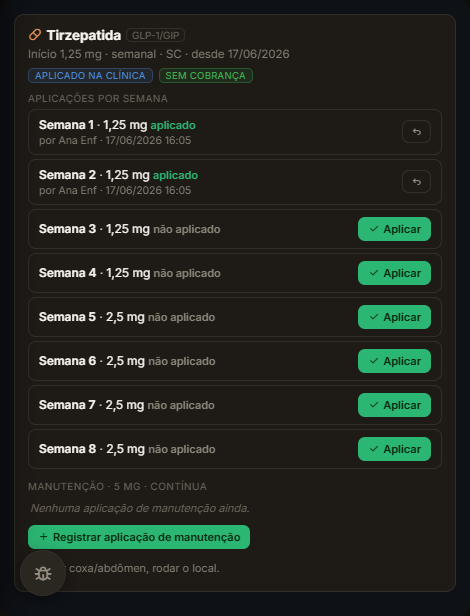
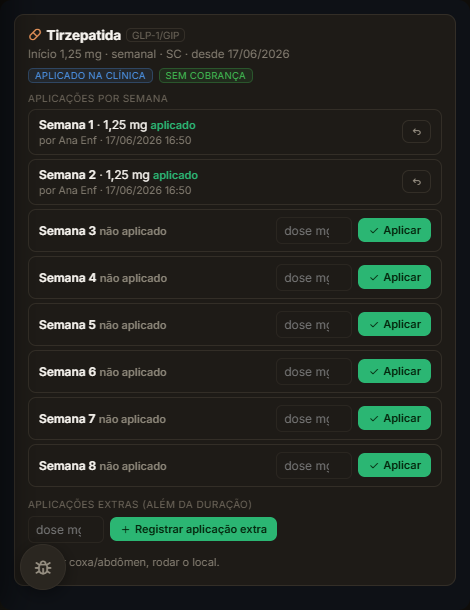
fix(base): numerar aplicações extras pela posição (sem buraco após desfazer)
O ordinal das aplicações extras usava semana - total_finito (offset absoluto),
então desfazer uma extra do meio deixava "Extra 2ª" sem "1ª". Passa a numerar
pela posição na lista (já ordenada por semana). Testes da aba Base atualizados
pra UI atual (dose digitada + "Extra") + novo teste do item da timeline.

diff --git a/shots/pr-base-aba.js b/shots/pr-base-aba.js
@@ -1,9 +1,9 @@
-// Aba "Base" no card de ENFERMAGEM: medicamento base (GLP-1), UMA linha de aplicação por semana da
-// escada + botão aplicar/desfazer + manutenção sob demanda. Sem cobrança.
+// Aba "Base" no card de ENFERMAGEM: UMA linha por semana da escada + dose DIGITADA na hora + aplicar/
+// desfazer + aplicações "extras" (além da duração). Sem cobrança.
 // Roda de total/: node shots/pr-base-aba.js <porta>
 const puppeteer = require('puppeteer-core');
 const CHROME = String.raw`C:\Program Files\Google\Chrome\Application\chrome.exe`;
-const PORT = process.argv[2] || '8180';
+const PORT = process.argv[2] || '8195';
 
 (async () => {
   const b = await puppeteer.launch({ executablePath: CHROME, headless: 'new', args: ['--no-sandbox'], defaultViewport: { width: 900, height: 1100 } });
@@ -17,11 +17,11 @@ const PORT = process.argv[2] || '8180';
     const r = {};
     window.homeToast = () => {};
     window.temPermissao = () => true; // enfermeira com permissão de aplicar
-    const cincoSemanas = new Date(Date.now() - 35 * 86400000).toISOString();
+    const cinco = new Date(Date.now() - 35 * 86400000).toISOString();
 
-    // GET expandido: 8 semanas finitas (4x1,25 + 4x2,5), semana 1 já aplicada; manutenção 5 mg sob demanda.
+    // GET expandido: 8 semanas finitas, semana 1 já aplicada (dose registrada); "extras" 9 e 11 (gap: a 10 foi desfeita).
     const semanasMock = [
-      { semana: 1, dose_mg: 1.25, aplicada: true, aplicacao_id: 'a1', data_aplicacao: cincoSemanas, enfermeiro: 'Ana Enf', baixa_estoque: true },
+      { semana: 1, dose_mg: 1.25, aplicada: true, aplicacao_id: 'a1', data_aplicacao: cinco, enfermeiro: 'Ana Enf', baixa_estoque: true },
       { semana: 2, dose_mg: 1.25, aplicada: false },
       { semana: 3, dose_mg: 1.25, aplicada: false },
       { semana: 4, dose_mg: 1.25, aplicada: false },
@@ -33,9 +33,12 @@ const PORT = process.argv[2] || '8180';
     const baseResp = () => ({ ok: true, data: { prescricoes: [{
       id: 'pb1', patientId: 'p1', medicamentoBaseSlug: 'tirzepatida', doseInicialMg: 1.25, via: 'SC',
       frequencia: 'semanal', autoAdministrado: false, observacoes: 'Aplicar coxa/abdômen, rodar o local.',
-      status: 'prescrita', createdAt: cincoSemanas, total_finito: 8,
+      status: 'prescrita', createdAt: cinco, total_finito: 8,
       semanas: JSON.parse(JSON.stringify(semanasMock)),
-      manutencao: { dose_mg: 5, aplicadas: [] },
+      manutencao: { dose_mg: 5, aplicadas: [
+        { semana: 9, dose_mg: 5, aplicada: true, data_aplicacao: cinco, enfermeiro: 'Ana Enf', baixa_estoque: true },
+        { semana: 11, dose_mg: 5, aplicada: true, data_aplicacao: cinco, enfermeiro: 'Ana Enf', baixa_estoque: true },
+      ] },
     }] } });
     window.pacApi = async (url) => {
       if (/\/protocolos\/prescricoes-base\//.test(url)) return baseResp();
@@ -68,43 +71,49 @@ const PORT = process.argv[2] || '8180';
     r.sem_escada_velha = !/Escada de dose/.test(t) && !box.querySelector('.pr-base-degrau') && !/~ atual/.test(t);
     r.sem_alerta = !box.querySelector('.pr-base-alerta') && !/contraindicad/i.test(t) && !/Titular a dose/.test(t) && !/pancreatite/i.test(t);
 
-    // C) uma linha por semana (8), com dose por degrau
+    // C) uma linha por semana (8)
     const linhas = [...box.querySelectorAll('.pr-inj-lin')];
     r.n_linhas_sem = linhas.filter(l => /Semana \d/.test(l.textContent)).length; // 8 semanas
     r.tem_titulo_semanas = /Aplicações por semana/.test(t);
-    // semana 1 aplicada -> mostra "aplicado" + enfermeiro + botão desfazer
+    // semana 1 aplicada -> "aplicado" + enfermeiro + botão desfazer + dose registrada
     const l1 = linhas.find(l => /Semana 1\b/.test(l.textContent));
-    r.sem1_aplicada = !!l1 && /aplicado/.test(l1.textContent) && /Ana Enf/.test(l1.textContent) && !!l1.querySelector('.pr-inj-btn.desfazer');
-    // semana 2 pendente -> "não aplicado" + botão Aplicar
+    r.sem1_aplicada = !!l1 && /aplicado/.test(l1.textContent) && /Ana Enf/.test(l1.textContent) && !!l1.querySelector('.pr-inj-btn.desfazer') && /1,25 mg/.test(l1.textContent);
+    // semana 2 pendente -> "não aplicado" + INPUT de dose + botão Aplicar
     const l2 = linhas.find(l => /Semana 2\b/.test(l.textContent));
-    r.sem2_pendente = !!l2 && /não aplicado/.test(l2.textContent) && !!l2.querySelector('.pr-inj-btn.aplicar');
-    // doses corretas por degrau
-    r.doses_degrau = /Semana 5/.test(t) && [...linhas].some(l => /Semana 5/.test(l.textContent) && /2,5 mg/.test(l.textContent));
+    r.sem2_pendente = !!l2 && /não aplicado/.test(l2.textContent) && !!l2.querySelector('.pr-inj-btn.aplicar') && !!document.getElementById('pbdose-pb1-2');
 
-    // D) manutenção sob demanda
-    r.tem_manut_sec = /Manutenção · 5 mg · contínua/.test(t);
-    r.tem_btn_manut = /Registrar aplicação de manutenção/.test(box.innerHTML);
+    // D) aplicações extras (além da duração) + ordinal DENSO (fix: 9 e 11 -> "Extra 1ª" e "Extra 2ª", não "3ª")
+    r.tem_extras_sec = /Aplicações extras/.test(t);
+    r.tem_btn_extra = /Registrar aplicação extra/.test(box.innerHTML) && !!document.getElementById('pbdose-pb1-manut');
+    r.extra_ordinal_denso = /Extra 1ª/.test(t) && /Extra 2ª/.test(t) && !/Extra 3ª/.test(t);
 
     // E) as funções existem
     r.fns = typeof prBaseAplicar === 'function' && typeof prBaseDesaplicar === 'function' && typeof prBaseAplicarManut === 'function';
 
-    // F) clicar Aplicar na semana 2 -> POST /aplicar {semana:2}; e simular resposta ok
-    let corpoEnviado = null, urlEnviada = null;
+    // F) exige dose antes de aplicar (input vazio -> não chama a API)
+    let urlEnviada = null, corpoEnviado = null;
     window.pacApi = async (url, opts) => {
-      if (/\/protocolos\/prescricoes-base\/pb1\/aplicar$/.test(url)) { urlEnviada = url; corpoEnviado = JSON.parse(opts.body); return { ok: true, data: { ok: true, semana: 2, baixa_estoque: true } }; }
-      if (/\/protocolos\/prescricoes-base\//.test(url)) { const rr = baseResp(); rr.data.prescricoes[0].semanas[1].aplicada = true; rr.data.prescricoes[0].semanas[1].enfermeiro = 'Eu Mesmo'; rr.data.prescricoes[0].semanas[1].data_aplicacao = new Date().toISOString(); rr.data.prescricoes[0].semanas[1].baixa_estoque = true; return rr; }
+      if (/\/prescricoes-base\/pb1\/aplicar$/.test(url)) { urlEnviada = url; corpoEnviado = JSON.parse(opts.body); return { ok: true, data: { ok: true, semana: 2, baixa_estoque: true } }; }
+      if (/\/protocolos\/prescricoes-base\//.test(url)) { const rr = baseResp(); rr.data.prescricoes[0].semanas[1].aplicada = true; rr.data.prescricoes[0].semanas[1].dose_mg = 1.25; rr.data.prescricoes[0].semanas[1].enfermeiro = 'Eu Mesmo'; rr.data.prescricoes[0].semanas[1].data_aplicacao = new Date().toISOString(); rr.data.prescricoes[0].semanas[1].baixa_estoque = true; return rr; }
       if (/\/protocolos\/medicamentos-base$/.test(url)) return { ok: true, data: { medicamentos: [{ slug: 'tirzepatida', nome: 'Tirzepatida', classe: 'glp1_gi', via: 'SC', alertas: [] }] } };
       return { ok: true, data: {} };
     };
     const btnAplicar = l2.querySelector('.pr-inj-btn.aplicar');
+    await prBaseAplicar('pb1', 2, btnAplicar); // input vazio
+    await new Promise(x => setTimeout(x, 30));
+    r.bloqueia_sem_dose = urlEnviada === null; // não chamou a API sem dose
+
+    // G) com dose digitada -> POST /aplicar {semana:2, dose_mg:1.25}
+    // (input type=number guarda sempre com PONTO; vírgula seria rejeitada pelo browser)
+    document.getElementById('pbdose-pb1-2').value = '1.25';
     await prBaseAplicar('pb1', 2, btnAplicar);
     await new Promise(x => setTimeout(x, 60));
-    r.aplicar_chamou = urlEnviada && /\/aplicar$/.test(urlEnviada) && corpoEnviado && corpoEnviado.semana === 2;
+    r.aplicar_com_dose = urlEnviada && /\/aplicar$/.test(urlEnviada) && corpoEnviado && corpoEnviado.semana === 2 && Number(corpoEnviado.dose_mg) === 1.25;
     const box2 = document.getElementById('pr-base-box');
     const l2b = [...box2.querySelectorAll('.pr-inj-lin')].find(l => /Semana 2\b/.test(l.textContent));
     r.sem2_virou_aplicada = !!l2b && /aplicado/.test(l2b.textContent) && /Eu Mesmo/.test(l2b.textContent);
 
-    // G) sem prescrição base -> vazio honesto
+    // H) sem prescrição base -> vazio honesto
     window.pacApi = async (url) => {
       if (/\/protocolos\/prescricoes-base\//.test(url)) return { ok: true, data: { prescricoes: [] } };
       if (/\/protocolos\/medicamentos-base$/.test(url)) return { ok: true, data: { medicamentos: [] } };
@@ -128,15 +137,16 @@ const PORT = process.argv[2] || '8180';
   console.log('\n--- semanas ---');
   ok('uma linha por semana (8 finitas)', out.n_linhas_sem === 8, String(out.n_linhas_sem));
   ok('título "Aplicações por semana"', out.tem_titulo_semanas);
-  ok('semana 1 aplicada (enfermeiro + desfazer)', out.sem1_aplicada);
-  ok('semana 2 pendente ("não aplicado" + Aplicar)', out.sem2_pendente);
-  ok('dose por degrau (semana 5 -> 2,5 mg)', out.doses_degrau);
-  console.log('\n--- manutenção ---');
-  ok('seção de manutenção contínua', out.tem_manut_sec);
-  ok('botão registrar manutenção', out.tem_btn_manut);
+  ok('semana 1 aplicada (enfermeiro + desfazer + dose)', out.sem1_aplicada);
+  ok('semana 2 pendente ("não aplicado" + input + Aplicar)', out.sem2_pendente);
+  console.log('\n--- extras (além da duração) ---');
+  ok('seção "Aplicações extras"', out.tem_extras_sec);
+  ok('input + botão registrar extra', out.tem_btn_extra);
+  ok('ordinal denso após gap (Extra 1ª/2ª, sem 3ª)', out.extra_ordinal_denso);
   console.log('\n--- ações ---');
   ok('funções prBaseAplicar/Desaplicar/AplicarManut', out.fns);
-  ok('clicar Aplicar -> POST /aplicar {semana:2}', out.aplicar_chamou);
+  ok('bloqueia aplicar sem dose digitada', out.bloqueia_sem_dose);
+  ok('com dose -> POST /aplicar {semana:2, dose_mg:1,25}', out.aplicar_com_dose);
   ok('após aplicar, semana 2 vira "aplicado"', out.sem2_virou_aplicada);
   console.log('\n--- vazio ---');
   ok('sem base -> mensagem honesta', out.vazio_honesto);
@@ -154,8 +164,8 @@ const PORT = process.argv[2] || '8180';
 
   const tudo = out.tem_aba_base && out.tem_droga && out.tem_inicial && out.flag_clinica && out.sem_escada_velha
     && out.sem_alerta && out.n_linhas_sem === 8 && out.tem_titulo_semanas && out.sem1_aplicada && out.sem2_pendente
-    && out.doses_degrau && out.tem_manut_sec && out.tem_btn_manut && out.fns && out.aplicar_chamou && out.sem2_virou_aplicada
-    && out.vazio_honesto && !errs.length;
+    && out.tem_extras_sec && out.tem_btn_extra && out.extra_ordinal_denso && out.fns && out.bloqueia_sem_dose
+    && out.aplicar_com_dose && out.sem2_virou_aplicada && out.vazio_honesto && !errs.length;
   await b.close();
   process.exit(tudo ? 0 : 1);
 })().catch((e) => { console.error('ERR', e.message); process.exit(1); });

diff --git a/shots/pr-timeline-base.js b/shots/pr-timeline-base.js
@@ -1,0 +1,67 @@
+// A aplicação do medicamento base SEM produto vinculado entra na timeline ("ver histórico completo")
+// como item 'aplicacao' com vários campos null. Confere que prRenderItem não quebra e mostra o essencial.
+// Roda de total/: node shots/pr-timeline-base.js <porta>
+const puppeteer = require('puppeteer-core');
+const CHROME = String.raw`C:\Program Files\Google\Chrome\Application\chrome.exe`;
+const PORT = process.argv[2] || '8195';
+
+(async () => {
+  const b = await puppeteer.launch({ executablePath: CHROME, headless: 'new', args: ['--no-sandbox'], defaultViewport: { width: 900, height: 900 } });
+  const p = await b.newPage();
+  const errs = [];
+  p.on('pageerror', (e) => errs.push('PAGEERR: ' + e.message.slice(0, 200)));
+  await p.goto('http://localhost:' + PORT + '/clinico.html', { waitUntil: 'domcontentloaded', timeout: 60000 });
+  await new Promise((r) => setTimeout(r, 1200));
+
+  const out = await p.evaluate(() => {
+    const r = {};
+    // Item exatamente como o backend emite pra base sem ClinApplication.
+    const itemBase = {
+      tipo: 'aplicacao',
+      data: new Date().toISOString(),
+      titulo: 'Aplicação',
+      icone: 'vaccine',
+      cor: '#EF9F27',
+      dados: {
+        id: null, profissional: 'Ana Enf', produto: 'Tirzepatida', principio_ativo: null,
+        lote: null, validade: null, dose: '1,25 mg', via: 'SUBCUTANEA', local: null,
+        reacao_adversa: null, observacoes: 'Medicamento base (sem baixa de estoque)',
+      },
+    };
+    // E o item "normal" (com produto de estoque) pra comparar.
+    const itemItem = {
+      tipo: 'aplicacao', data: new Date().toISOString(), titulo: 'Aplicação', icone: 'vaccine', cor: '#EF9F27',
+      dados: { id: 'a1', profissional: 'Ana Enf', produto: 'Tirzepatida', principio_ativo: 'Tirzepatida',
+        lote: 'LT-9', validade: '2027-01-01', dose: '2.5 mg', via: 'SUBCUTANEA', local: 'abdômen',
+        reacao_adversa: null, observacoes: null },
+    };
+    let hBase = '', hItem = '';
+    try { hBase = prRenderItem(itemBase); } catch (e) { r.erro_base = e.message; }
+    try { hItem = prRenderItem(itemItem); } catch (e) { r.erro_item = e.message; }
+    r.base_mostra_droga = /Tirzepatida/.test(hBase) && /1,25 mg/.test(hBase);
+    r.base_sem_paren_redundante = !/\(Tirzepatida\)/.test(hBase);   // principio_ativo null -> sem "(Tirzepatida)"
+    r.base_sem_null = !/>null</.test(hBase) && !/null mg/.test(hBase) && !/undefined/.test(hBase);
+    r.base_sem_lote = !/Lote:/.test(hBase);                          // lote null -> não renderiza bloco de lote
+    r.base_via = /subcutanea/i.test(hBase);
+    r.item_mostra_lote = /Lote:/.test(hItem) && /LT-9/.test(hItem) && /\(Tirzepatida\)/.test(hItem); // item normal ainda ok
+    return r;
+  });
+
+  const ok = (n, c, e = '') => console.log((c ? '  OK   ' : '  FALHA') + ' ' + n + (e ? ' -> ' + e : ''));
+  console.log('--- timeline: aplicação da base sem produto ---');
+  ok('renderiza sem erro (base)', !out.erro_base, out.erro_base || '');
+  ok('mostra droga + dose', out.base_mostra_droga);
+  ok('sem "(Tirzepatida)" redundante (principio_ativo null)', out.base_sem_paren_redundante);
+  ok('sem "null"/"undefined" no html', out.base_sem_null);
+  ok('sem bloco de lote (lote null)', out.base_sem_lote);
+  ok('mostra a via', out.base_via);
+  console.log('--- item normal (com produto) segue ok ---');
+  ok('renderiza sem erro (item)', !out.erro_item, out.erro_item || '');
+  ok('mostra lote + principio ativo', out.item_mostra_lote);
+  console.log('\nERROS:', errs.length ? errs.join(' | ') : '(nenhum)');
+
+  const tudo = !out.erro_base && out.base_mostra_droga && out.base_sem_paren_redundante && out.base_sem_null
+    && out.base_sem_lote && out.base_via && !out.erro_item && out.item_mostra_lote && !errs.length;
+  await b.close();
+  process.exit(tudo ? 0 : 1);
+})().catch((e) => { console.error('ERR', e.message); process.exit(1); });

diff --git a/clinico.html b/clinico.html
@@ -23270,8 +23270,8 @@ function prBaseHtml(prescs, cat) {
     // Manutenção (contínua, sob demanda): as já aplicadas + um botão pra registrar a próxima.
     let manutHtml = '';
     if (p.manutencao) {
-      const linhas = (p.manutencao.aplicadas || []).map((a) => {
-        const n = a.semana - (p.total_finito || 0);
+      const linhas = (p.manutencao.aplicadas || []).map((a, i) => {
+        const n = i + 1; // ordinal pela posição na lista (já ordenada por semana) — sem buraco após desfazer uma do meio
         const doseSpan = a.dose_mg != null ? ` · <span class="dose">${esc(doseTxt(a.dose_mg))}</span>` : '';
         return `<div class="pr-inj-lin"><div class="pr-inj-lin-info"><span class="sem">Extra ${n}ª</span>${doseSpan} <span class="st" style="color:#2BB673">aplicado</span>${metaAplic(a)}</div>${btnDesf(p.id, a.semana)}</div>`;
       }).join('');